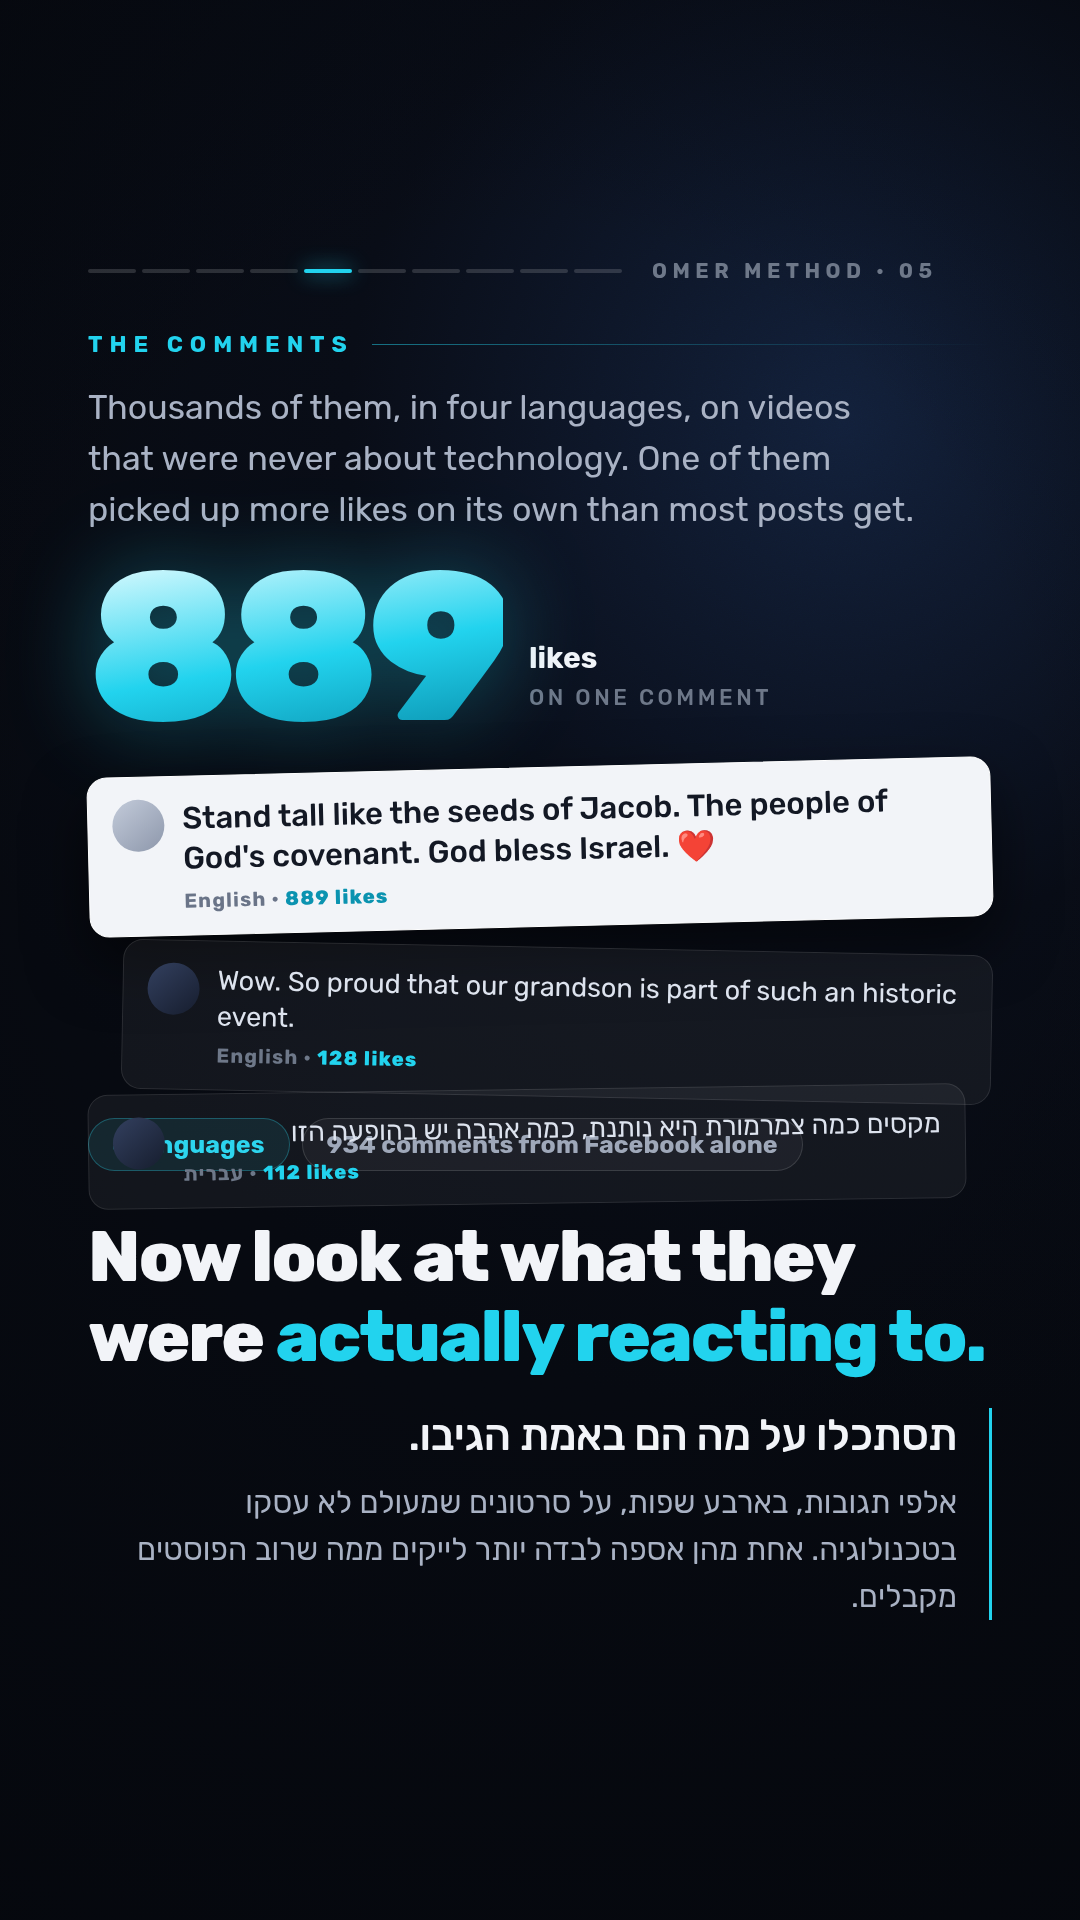
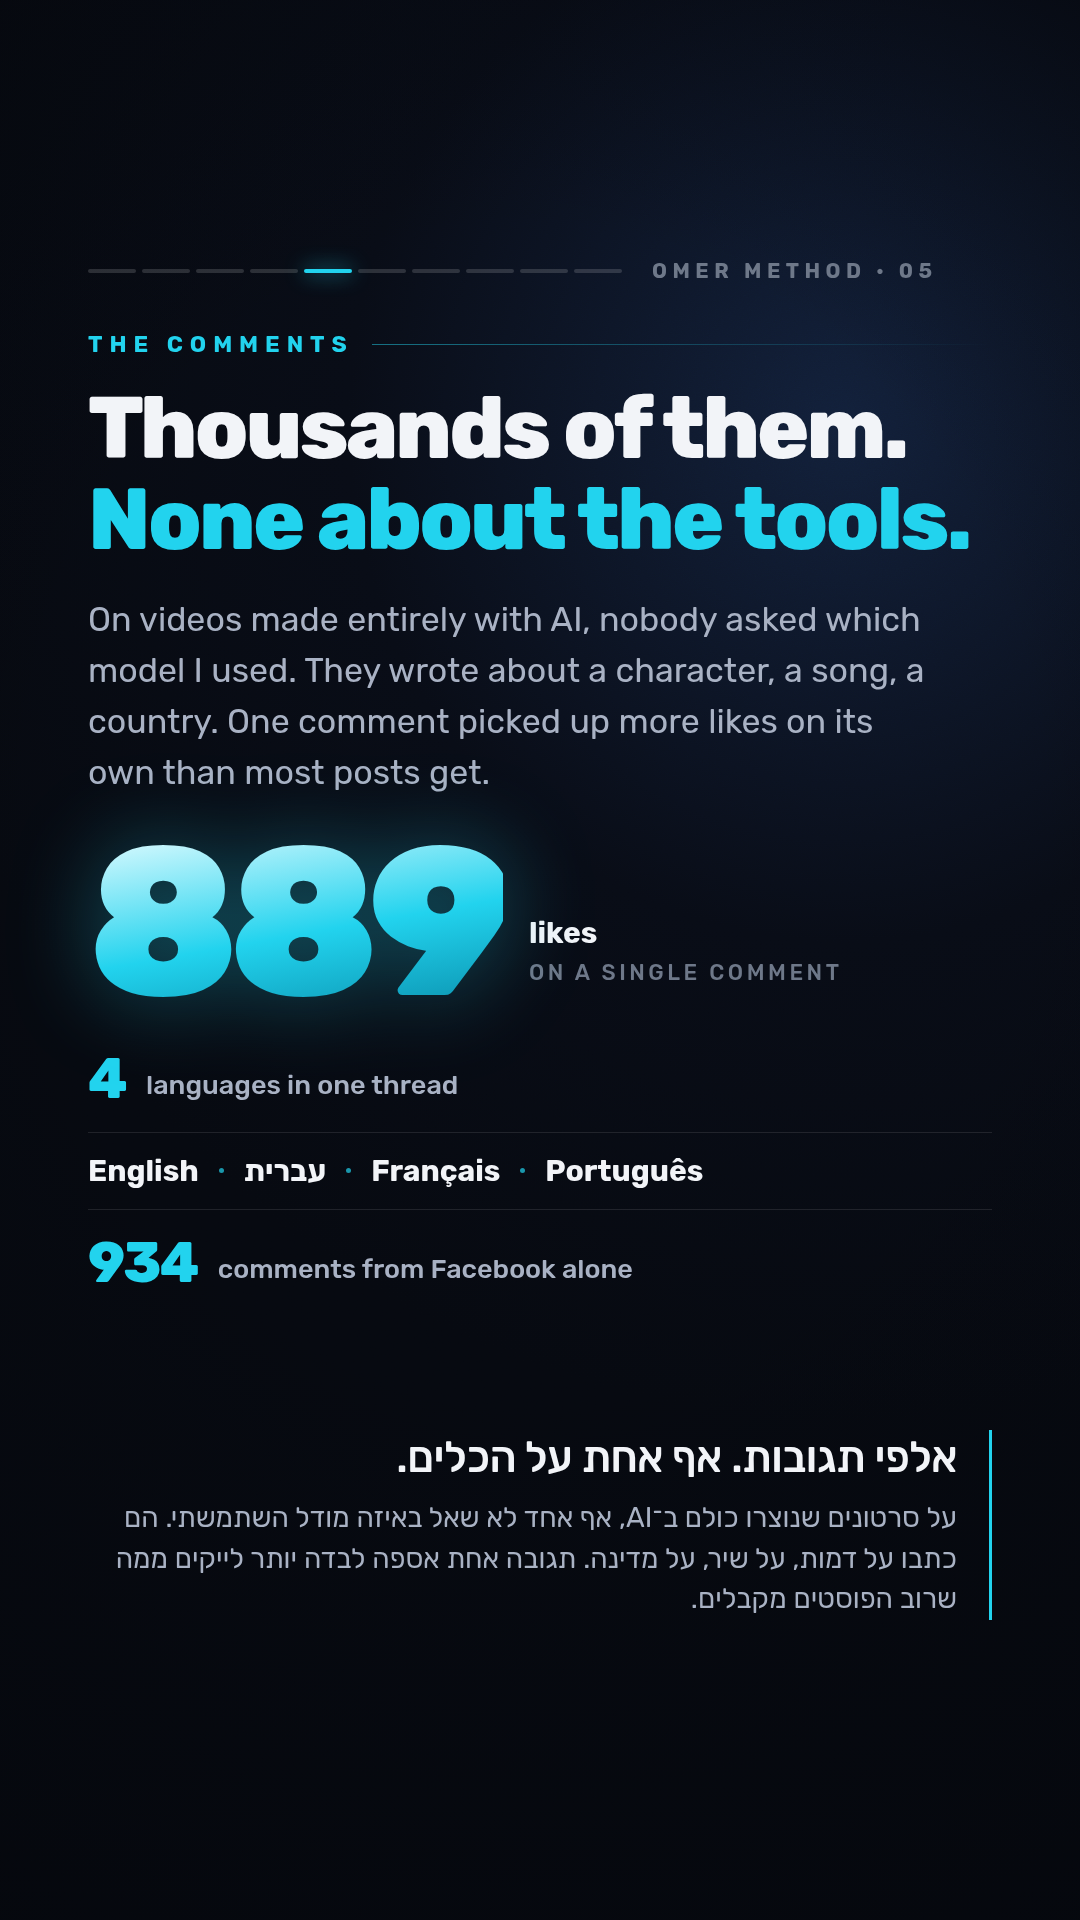
Replace the mocked-up comments and drop pricing from the close
Frames 05 and 06 rebuilt real comments as styled cards with avatars, like
counts and timestamps. They read as screenshots without being
screenshots, so a viewer could not tell evidence from art direction.

05 now carries the evidence as data — the 889 monument, then a ruled
ledger of the four languages and the Facebook count. 06 carries the
keyword mechanic as an openly typographic field of one repeated word,
three complete rows masked to fade out. Both are honest about being
design rather than imitating a screen.

10 drops the price row for scope — five guides, permanent access — and
leaves pricing to the landing page.

Claude-Session: https://claude.ai/code/session_0113ue75zsKk6knXSw8ei82D

Changed region(s): [[0.0611, 0.1875, 0.9167, 0.8438]]

diff --git a/omer-method-launch/01-stories/frames.html b/omer-method-launch/01-stories/frames.html
@@ -89,6 +89,21 @@ body{background:#14171d;font-family:Rubik,sans-serif;-webkit-font-smoothing:anti
 .he-deck{direction:rtl;text-align:right;font-size:31px;font-weight:400;line-height:1.52;
          color:var(--deck);margin-top:15px}
 
+.langs{display:flex;flex-direction:column;gap:20px;direction:ltr}
+.langs .n{font-size:56px;font-weight:800;color:var(--cy);letter-spacing:-.03em;
+          margin-right:20px;vertical-align:-4px}
+.langs .l{font-size:27px;font-weight:500;color:var(--deck)}
+.langs .lrow{display:flex;align-items:center;gap:20px;font-size:30px;font-weight:600;
+             color:var(--paper);padding:20px 0;border-top:1px solid var(--hair);
+             border-bottom:1px solid var(--hair)}
+.langs .lrow i{display:block;width:5px;height:5px;border-radius:50%;background:var(--cy);opacity:.7}
+.wordfield{display:flex;flex-wrap:wrap;gap:14px 26px;direction:ltr;
+           -webkit-mask-image:linear-gradient(180deg,#000 58%,transparent 100%);
+           mask-image:linear-gradient(180deg,#000 58%,transparent 100%)}
+.wordfield span{font-size:58px;font-weight:800;letter-spacing:-.03em;color:var(--paper);opacity:.9}
+.wordfield span:nth-child(3n){color:var(--cy)}
+.wordfield span:nth-child(4n){opacity:.42}
+.wordfield span:nth-child(7n){opacity:.22}
 .he-deck.tight{font-size:28px;line-height:1.45;margin-top:12px}
 .paperframe .he-deck{color:#4A5468}
 .paperframe .he-block{border-right-color:var(--cy-deep)}
@@ -224,21 +239,12 @@ body{background:#14171d;font-family:Rubik,sans-serif;-webkit-font-smoothing:anti
 .cmt.white .mt{color:#6A7488}
 .cmt.white .mt b{color:#0B93B0}
 .cmt.white .av{background:linear-gradient(140deg,#C3CBDA,#8D97AB)}
-#f05 .fan{position:relative;height:474px}
+
 #f05 .fan .cmt{position:absolute;left:0;right:0}
 
 /* ══════════════ 06 · WALL OF ACTION ══════════════ */
 #f06{background:linear-gradient(200deg,#04212B 0%,#060B14 46%,#060910 100%)}
-#f06 .col{position:relative;overflow:hidden;
-  -webkit-mask-image:linear-gradient(180deg,transparent,#000 9%,#000 88%,transparent);
-  mask-image:linear-gradient(180deg,transparent,#000 9%,#000 88%,transparent)}
-#f06 .rrow{display:flex;align-items:center;gap:20px;direction:ltr;height:58px;
-           border-bottom:1px solid rgba(255,255,255,.055)}
-#f06 .rrow .av{width:34px;height:34px;border-radius:50%;flex-shrink:0;
-               background:linear-gradient(140deg,#2C3A55,#141A29)}
-#f06 .rrow .w{font-size:33px;font-weight:600;color:#D7DEEA}
-#f06 .rrow .w .cy{color:var(--cy)}
-#f06 .rrow .t{margin-left:auto;font-size:19px;font-weight:500;color:#4E5768;letter-spacing:.08em}
+
 #f06 .marq{position:absolute;right:-34px;top:120px;height:1560px;z-index:0;pointer-events:none;
   writing-mode:vertical-rl;overflow:hidden;white-space:nowrap;
   font-size:132px;font-weight:900;letter-spacing:.04em;color:transparent;
@@ -330,14 +336,16 @@ body{background:#14171d;font-family:Rubik,sans-serif;-webkit-font-smoothing:anti
 #f10 .live i{width:11px;height:11px;border-radius:50%;background:var(--cy);
   box-shadow:0 0 16px var(--cy)}
 #f10 .prices{display:flex;direction:ltr;border-top:1px solid var(--hair);padding-top:26px}
+#f10 .prices .n{font-size:56px;font-weight:800;letter-spacing:-.03em;line-height:1;color:var(--paper)}
+#f10 .prices .l{font-size:22px;font-weight:600;letter-spacing:.2em;color:var(--muted);
+                margin-top:10px;text-transform:uppercase}
 #f10 .prices > div{flex:1}
-#f10 .prices .n{font-size:52px;font-weight:800;letter-spacing:-.03em;line-height:1}
+
 #f10 .prices .n .cy{color:var(--cy)}
 #f10 .prices .l{font-size:20px;font-weight:500;letter-spacing:.16em;color:var(--muted);
   margin-top:11px;text-transform:uppercase}
 #f10 .url{direction:ltr;font-size:44px;font-weight:800;color:var(--cy);letter-spacing:-.02em}
 </style>
-
 
 <!-- ══════════════════════ 01 · HOOK ══════════════════════
      Colossal type on a photographic bloom. The whole frame is one question. -->
@@ -372,7 +380,6 @@ body{background:#14171d;font-family:Rubik,sans-serif;-webkit-font-smoothing:anti
   </div>
 </section>
 
-
 <!-- ══════════════════════ 02 · ORIGIN ══════════════════════
      Type only, but lit. A violet stage beam from above, a timeline at the foot. -->
 <section class="frame" id="f02">
@@ -400,7 +407,6 @@ body{background:#14171d;font-family:Rubik,sans-serif;-webkit-font-smoothing:anti
     <div class="cap" style="margin-top:20px">Three years of building, every week, without a break.</div>
   </div>
 </section>
-
 
 <!-- ══════════════════════ 03 · MONICA ══════════════════════
      Edge-to-edge photograph up top, the story underneath it. -->
@@ -430,7 +436,6 @@ body{background:#14171d;font-family:Rubik,sans-serif;-webkit-font-smoothing:anti
     </div>
   </div>
 </section>
-
 
 <!-- ══════════════════════ 04 · THREE WORLDS ══════════════════════
      Full-bleed triptych. Three faces, three worlds, one grid. -->
@@ -474,7 +479,6 @@ body{background:#14171d;font-family:Rubik,sans-serif;-webkit-font-smoothing:anti
   </div>
 </section>
 
-
 <!-- ══════════════════════ 05 · WALL OF EMOTION ══════════════════════
      A monument number, then the evidence fanned beneath it. -->
 <section class="frame" id="f05">
@@ -484,40 +488,25 @@ body{background:#14171d;font-family:Rubik,sans-serif;-webkit-font-smoothing:anti
 
   <div class="pad">
     <div class="over">The comments</div>
-    <div class="deck" style="margin-top:24px;max-width:830px;font-size:34px">Thousands of them, in four languages, on
-      videos that were never about technology. One of them picked up more likes on its own than
-      most posts get.</div>
+    <div class="lead md" style="margin-top:26px">Thousands of them.<br><span class="cy">None about the tools.</span></div>
+    <div class="deck" style="margin-top:28px;max-width:850px;font-size:34px">On videos made entirely with AI, nobody asked
+      which model I used. They wrote about a character, a song, a country. One comment picked up more
+      likes on its own than most posts get.</div>
 
-    <div class="mon" style="margin-top:28px">
+    <div class="mon" style="margin-top:40px">
       <div class="big">889</div>
-      <div class="side"><div class="a">likes</div><div class="b">on one comment</div></div>
+      <div class="side"><div class="a">likes</div><div class="b">on a single comment</div></div>
     </div>
 
-    <div class="fan" style="margin-top:34px">
-      <div class="cmt white" style="top:0;transform:rotate(-1.4deg)">
-        <div class="av"></div><div class="bd">
-        <div class="tx">Stand tall like the seeds of Jacob. The people of God's covenant. God bless Israel. ❤</div>
-        <div class="mt">English · <b>889 likes</b></div></div></div>
-      <div class="cmt" style="top:180px;transform:rotate(1.1deg);left:34px">
-        <div class="av"></div><div class="bd">
-        <div class="tx">Wow. So proud that our grandson is part of such an historic event.</div>
-        <div class="mt">English · <b>128 likes</b></div></div></div>
-      <div class="cmt" style="top:322px;transform:rotate(-.8deg);right:26px">
-        <div class="av"></div><div class="bd">
-        <div class="tx" dir="rtl">מקסים כמה צמרמורת היא נותנת, כמה אהבה יש בהופעה הזו</div>
-        <div class="mt"><bdi>עברית</bdi> · <b>112 likes</b></div></div></div>
+    <div class="langs" style="margin-top:38px">
+      <div><span class="n">4</span><span class="l">languages in one thread</span></div>
+      <div class="lrow">English<i></i>עברית<i></i>Fran&ccedil;ais<i></i>Portugu&ecirc;s</div>
+      <div><span class="n">934</span><span class="l">comments from Facebook alone</span></div>
     </div>
 
-    <div class="chips" style="margin-top:10px">
-      <div class="chip">4 languages</div>
-      <div class="chip plain">934 comments from Facebook alone</div>
-    </div>
-    <div class="grow" style="min-height:46px"></div>
-    <div class="lead sm">Now look at what they<br>were <span class="cy">actually reacting to.</span></div>
-    <div class="he-block" style="margin-top:32px"><div class="he-line sm">תסתכלו על מה הם באמת הגיבו.</div><div class="he-deck">אלפי תגובות, בארבע שפות, על סרטונים שמעולם לא עסקו בטכנולוגיה. אחת מהן אספה לבדה יותר לייקים ממה שרוב הפוסטים מקבלים.</div></div>
-  </div>
-</section>
-
+    <div class="grow" style="max-height:120px"></div>
+    <div class="he-block" style="margin-top:34px"><div class="he-line sm">אלפי תגובות. אף אחת על הכלים.</div><div class="he-deck tight">על סרטונים שנוצרו כולם ב־<bdi>AI</bdi>, אף אחד לא שאל באיזה מודל השתמשתי. הם כתבו על דמות, על שיר, על מדינה. תגובה אחת אספה לבדה יותר לייקים ממה שרוב הפוסטים מקבלים.</div></div>
+  </section>
 
 <!-- ══════════════════════ 06 · WALL OF ACTION ══════════════════════
      Repetition as the argument. A log of one word, over and over. -->
@@ -529,31 +518,21 @@ body{background:#14171d;font-family:Rubik,sans-serif;-webkit-font-smoothing:anti
 
   <div class="pad">
     <div class="over">One keyword</div>
-    <div class="deck" style="margin-top:24px;max-width:760px">On one video I asked for a single word in the comments.
-      This is a fraction of what came back — and it kept going for days.</div>
+    <div class="deck" style="margin-top:24px;max-width:820px">On one video I asked for a single word in the comments.
+      It kept coming back for days, from people who had never written to me before.</div>
 
-    <div class="col" style="margin-top:34px;height:640px">
-      <div class="rrow"><div class="av"></div><div class="w">Ring! Great idea 💗</div><div class="t">2h</div></div>
-      <div class="rrow"><div class="av"></div><div class="w">Ring 👀</div><div class="t">2h</div></div>
-      <div class="rrow"><div class="av"></div><div class="w">Ring</div><div class="t">3h</div></div>
-      <div class="rrow"><div class="av"></div><div class="w">Ring</div><div class="t">3h</div></div>
-      <div class="rrow"><div class="av"></div><div class="w">Ring please 🙏</div><div class="t">4h</div></div>
-      <div class="rrow"><div class="av"></div><div class="w">Ring</div><div class="t">5h</div></div>
-      <div class="rrow"><div class="av"></div><div class="w">Ring</div><div class="t">6h</div></div>
-      <div class="rrow"><div class="av"></div><div class="w">Ring</div><div class="t">8h</div></div>
-      <div class="rrow"><div class="av"></div><div class="w">Ring 🔥</div><div class="t">11h</div></div>
-      <div class="rrow"><div class="av"></div><div class="w">Ring</div><div class="t">14h</div></div>
-      <div class="rrow"><div class="av"></div><div class="w">Ring</div><div class="t">1d</div></div>
+    <div class="wordfield" style="margin-top:34px">
+      <span>Ring</span><span>Ring</span><span>Ring</span><span>Ring</span><span>Ring</span><span>Ring</span>
+      <span>Ring</span><span>Ring</span><span>Ring</span><span>Ring</span><span>Ring</span><span>Ring</span>
+      <span>Ring</span><span>Ring</span><span>Ring</span><span>Ring</span><span>Ring</span><span>Ring</span>
     </div>
 
-    <div class="grow"></div>
-    <div class="lead sm" style="margin-top:26px">They stopped watching<br>and <span class="cy">started typing.</span></div>
+    <div class="grow" style="max-height:165px"></div>
+    <div class="lead sm" style="margin-top:30px">They stopped watching<br>and <span class="cy">started typing.</span></div>
     <div class="deck" style="margin-top:26px;font-size:32px">That is the whole difference between content people admire
       and content that actually does something.</div>
-    <div class="he-block" style="margin-top:30px"><div class="he-line sm">מילה אחת, וטור שלם של אנשים.</div><div class="he-deck">בסרטון אחד ביקשתי מילה אחת בתגובות. זה חלק קטן ממה שחזר, וזה המשיך ימים. זה כל ההבדל בין תוכן שמעריכים לבין תוכן שבאמת עושה משהו.</div></div>
-  </div>
-</section>
-
+    <div class="he-block" style="margin-top:28px"><div class="he-line sm">הם הפסיקו לצפות והתחילו להקליד.</div><div class="he-deck tight">בסרטון אחד ביקשתי מילה אחת בתגובות, והיא חזרה במשך ימים — מאנשים שמעולם לא כתבו לי קודם. זה כל ההבדל בין תוכן שמעריכים לבין תוכן שבאמת עושה משהו.</div></div>
+  </section>
 
 <!-- ══════════════════════ 07 · THE INSIGHT ══════════════════════
      The one inverted frame. Paper ground, ink type, the payload in a dark card. -->
@@ -576,7 +555,6 @@ body{background:#14171d;font-family:Rubik,sans-serif;-webkit-font-smoothing:anti
     </div>
   </div>
 </section>
-
 
 <!-- ══════════════════════ 08 · NOT A TUTORIAL ══════════════════════
      Split frame. A face on the right, the argument on the left, the line below. -->
@@ -616,7 +594,6 @@ body{background:#14171d;font-family:Rubik,sans-serif;-webkit-font-smoothing:anti
     <div class="he-block" style="margin-top:34px"><div class="he-line sm">זה לא מחליף אתכם.<br>זה מחדד את מה שאתם כבר עושים.</div><div class="he-deck">אני לא כאן כדי ללמד אתכם לעשות סרטון <bdi>AI</bdi>. החלק הזה קל היום, ובכנות הוא הכי פחות מעניין בכל הסיפור. הקשה הוא לגרום לו לשאת את מה שאתם כבר עושים.</div></div>
   </div>
 </section>
-
 
 <!-- ══════════════════════ 09 · WHAT I BUILT ══════════════════════
      A contents page. Ghost numerals, real chapter names, the loop closed at the foot. -->
@@ -658,7 +635,6 @@ body{background:#14171d;font-family:Rubik,sans-serif;-webkit-font-smoothing:anti
   </div>
 </section>
 
-
 <!-- ══════════════════════ 10 · CTA ══════════════════════
      Brand frame. The wordmark carries the weight, the numbers sit quietly under it. -->
 <section class="frame" id="f10">
@@ -678,8 +654,7 @@ body{background:#14171d;font-family:Rubik,sans-serif;-webkit-font-smoothing:anti
     <div class="mark">Omer<br><span class="cy">Method</span></div>
     <div style="margin-top:24px"><span class="live"><i></i>Live now · <bdi>באוויר</bdi></span></div>
     <div class="prices" style="margin-top:22px">
-      <div><div class="n">$19</div><div class="l">one guide</div></div>
-      <div><div class="n"><span class="cy">$49</span></div><div class="l">all five</div></div>
+      <div><div class="n"><span class="cy">5</span></div><div class="l">guides</div></div>
       <div><div class="n">∞</div><div class="l">permanent access</div></div>
     </div>
     <div class="url" style="margin-top:28px">omermethod.com</div>

diff --git a/omer-method-launch/01-stories/design-system.md b/omer-method-launch/01-stories/design-system.md
@@ -125,12 +125,12 @@ No two adjacent frames share an archetype.
 | 02 | Type only, lit | Violet stage beam from above, pull quote, a 2023→2026 timeline at the foot |
 | 03 | Full-bleed photograph off the top edge | 1080×617 Monica still, type block below, stat row at the foot |
 | 04 | Full-bleed triptych | Three 356×600 portraits edge to edge, captions inside the tiles, ghost `3` |
-| 05 | Monument + evidence collage | `889` at 212px, one white comment card among dark ones, fanned and rotated |
-| 06 | Dense repetition column | Eleven rows of one word, masked to fade at both ends, ghost vertical marquee |
+| 05 | Monument + data ledger | `889` at 212px, then a ruled ledger of the four languages and the Facebook count |
+| 06 | Typographic word field | Eighteen settings of one word in three complete rows, masked to fade out, ghost vertical marquee |
 | 07 | **Inverted** — paper ground, ink type | The one colour break; the payload sits in a dark card inside the light frame |
 | 08 | Split | Portrait circle right, argument left, a two-column easy/hard contrast, then the line |
 | 09 | Contents page | Ghost-outlined numerals 01–05, chapter names, descriptors, callout at the foot |
-| 10 | Brand close | 146px stacked wordmark with a cyan bloom, price row, URL |
+| 10 | Brand close | 146px stacked wordmark with a cyan bloom, a scope row, URL. **No prices** |
 
 ### The one constant
 
@@ -189,3 +189,15 @@ Three checks, all against the rendered DOM:
    do not catch a stray badge in a crop, a headline that wrapped into an orphan,
    a caption row that fell out of alignment, or a frame that is simply dead.
    Every one of those happened on the first pass here and only the eye caught them.
+
+## Two rules learned the hard way
+
+**Never mock up a screenshot.** Frames 05 and 06 first rebuilt real comments as
+styled cards — avatars, like counts, timestamps. They read as screenshots without
+being screenshots, which is worse than showing nothing: the viewer cannot tell
+what is evidence and what is art direction. The evidence is now carried as data
+(a monument numeral, a ruled ledger) and as an openly typographic device (a field
+of one repeated word). Both are honest about being design.
+
+**No prices in the sequence.** The close names the scope — five guides, permanent
+access — and sends people to the site. Pricing is the landing page's job.
